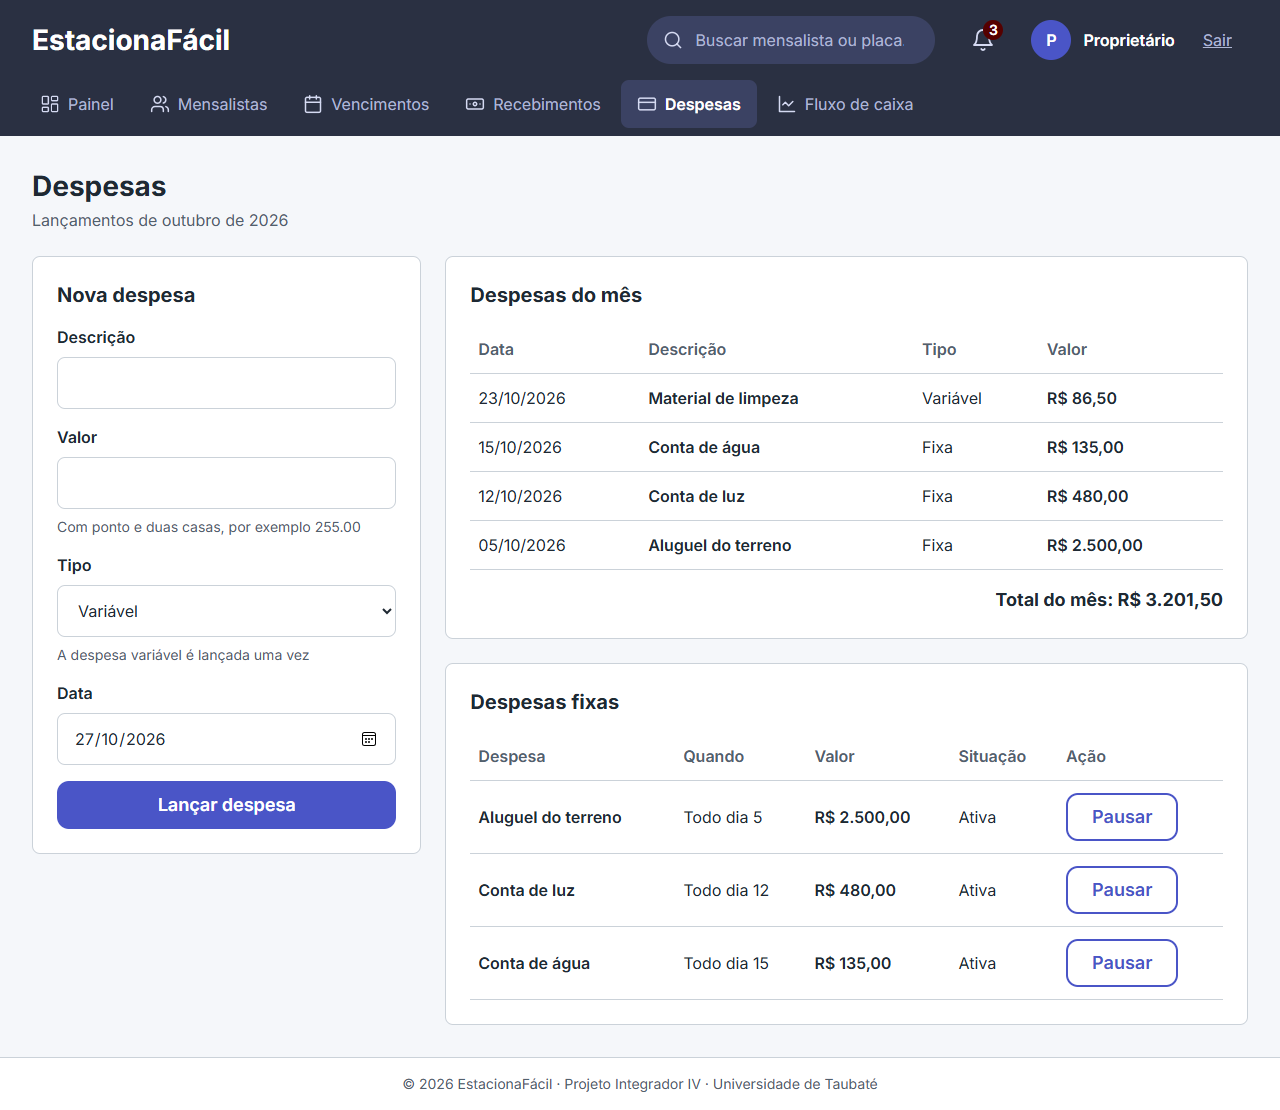
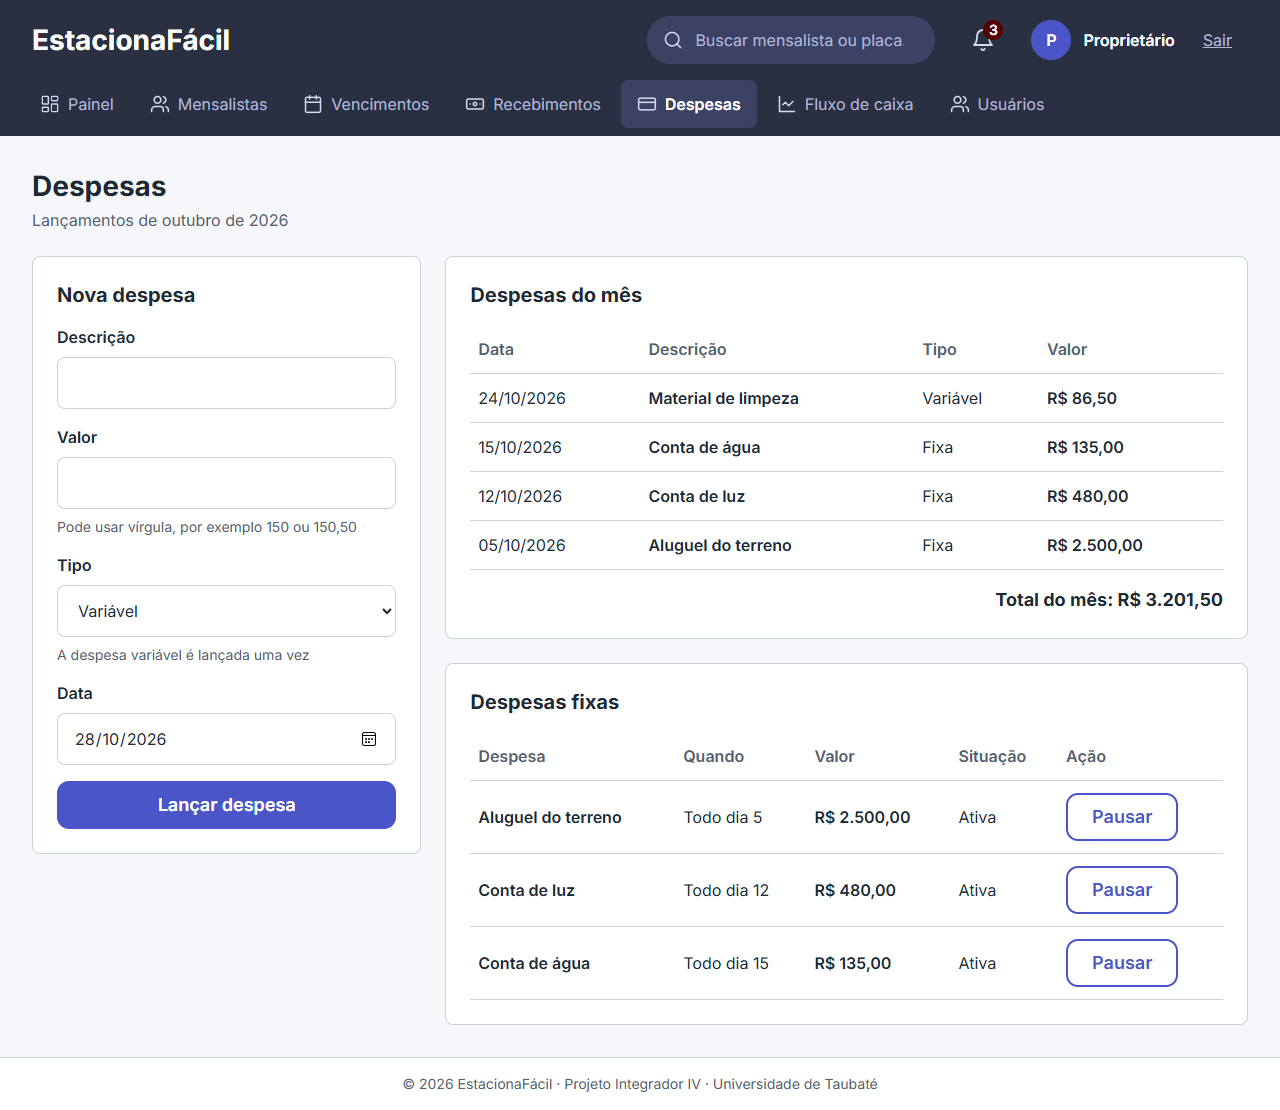
test: e2e com a aba Usuários (7 abas) e capturas do manual atualizadas

diff --git a/e2e/celular.spec.ts b/e2e/celular.spec.ts
@@ -13,6 +13,8 @@ const TELAS_DO_PROPRIETARIO: [string, string][] = [
   ['Recebimentos', '/recebimentos'],
   ['Despesas', '/despesas'],
   ['Fluxo de caixa', '/fluxo-de-caixa'],
+  ['Usuários', '/usuarios'],
+  ['Minha conta', '/conta'],
   ['Novo mensalista', '/mensalistas/novo'],
 ];
 
@@ -34,10 +36,15 @@ test('o Proprietário usa as abas na barra de baixo e o menu Mais', async ({ pag
   const caixa = await abas.boundingBox();
   expect(Math.round((caixa?.y ?? 0) + (caixa?.height ?? 0))).toBe(altura);
 
-  // As outras três abas ficam atrás do "Mais".
+  // As outras quatro abas ficam atrás do "Mais".
   await abas.getByRole('button', { name: 'Mais' }).tap();
   const menu = page.getByRole('list', { name: 'Mais abas' });
-  await expect(menu.getByRole('link')).toHaveText(['Vencimentos', 'Despesas', 'Fluxo de caixa']);
+  await expect(menu.getByRole('link')).toHaveText([
+    'Vencimentos',
+    'Despesas',
+    'Fluxo de caixa',
+    'Usuários',
+  ]);
 
   await menu.getByRole('link', { name: 'Fluxo de caixa' }).tap();
   await expect(page.getByRole('heading', { name: 'Fluxo de caixa', level: 1 })).toBeVisible();

diff --git a/e2e/aceitacao.spec.ts b/e2e/aceitacao.spec.ts
@@ -14,6 +14,7 @@ const ABAS_DO_PROPRIETARIO = [
   'Recebimentos',
   'Despesas',
   'Fluxo de caixa',
+  'Usuários',
 ];
 const ABAS_DO_AUXILIAR = ['Mensalistas', 'Recebimentos', 'Despesas'];
 
@@ -22,7 +23,7 @@ const DIA_DO_VENCIMENTO = String(Math.min(Number(hoje().slice(8, 10)), 28));
 
 let mensalistaId = 0;
 
-test('1. o Proprietário entra, vê o Painel e abre as 6 abas', async ({ page }) => {
+test('1. o Proprietário entra, vê o Painel e abre as 7 abas', async ({ page }) => {
   await entrar(page, 'dono');
   await expect(page).toHaveURL(/\/painel$/);
   await expect(page.getByRole('heading', { name: 'Painel', level: 1 })).toBeVisible();
